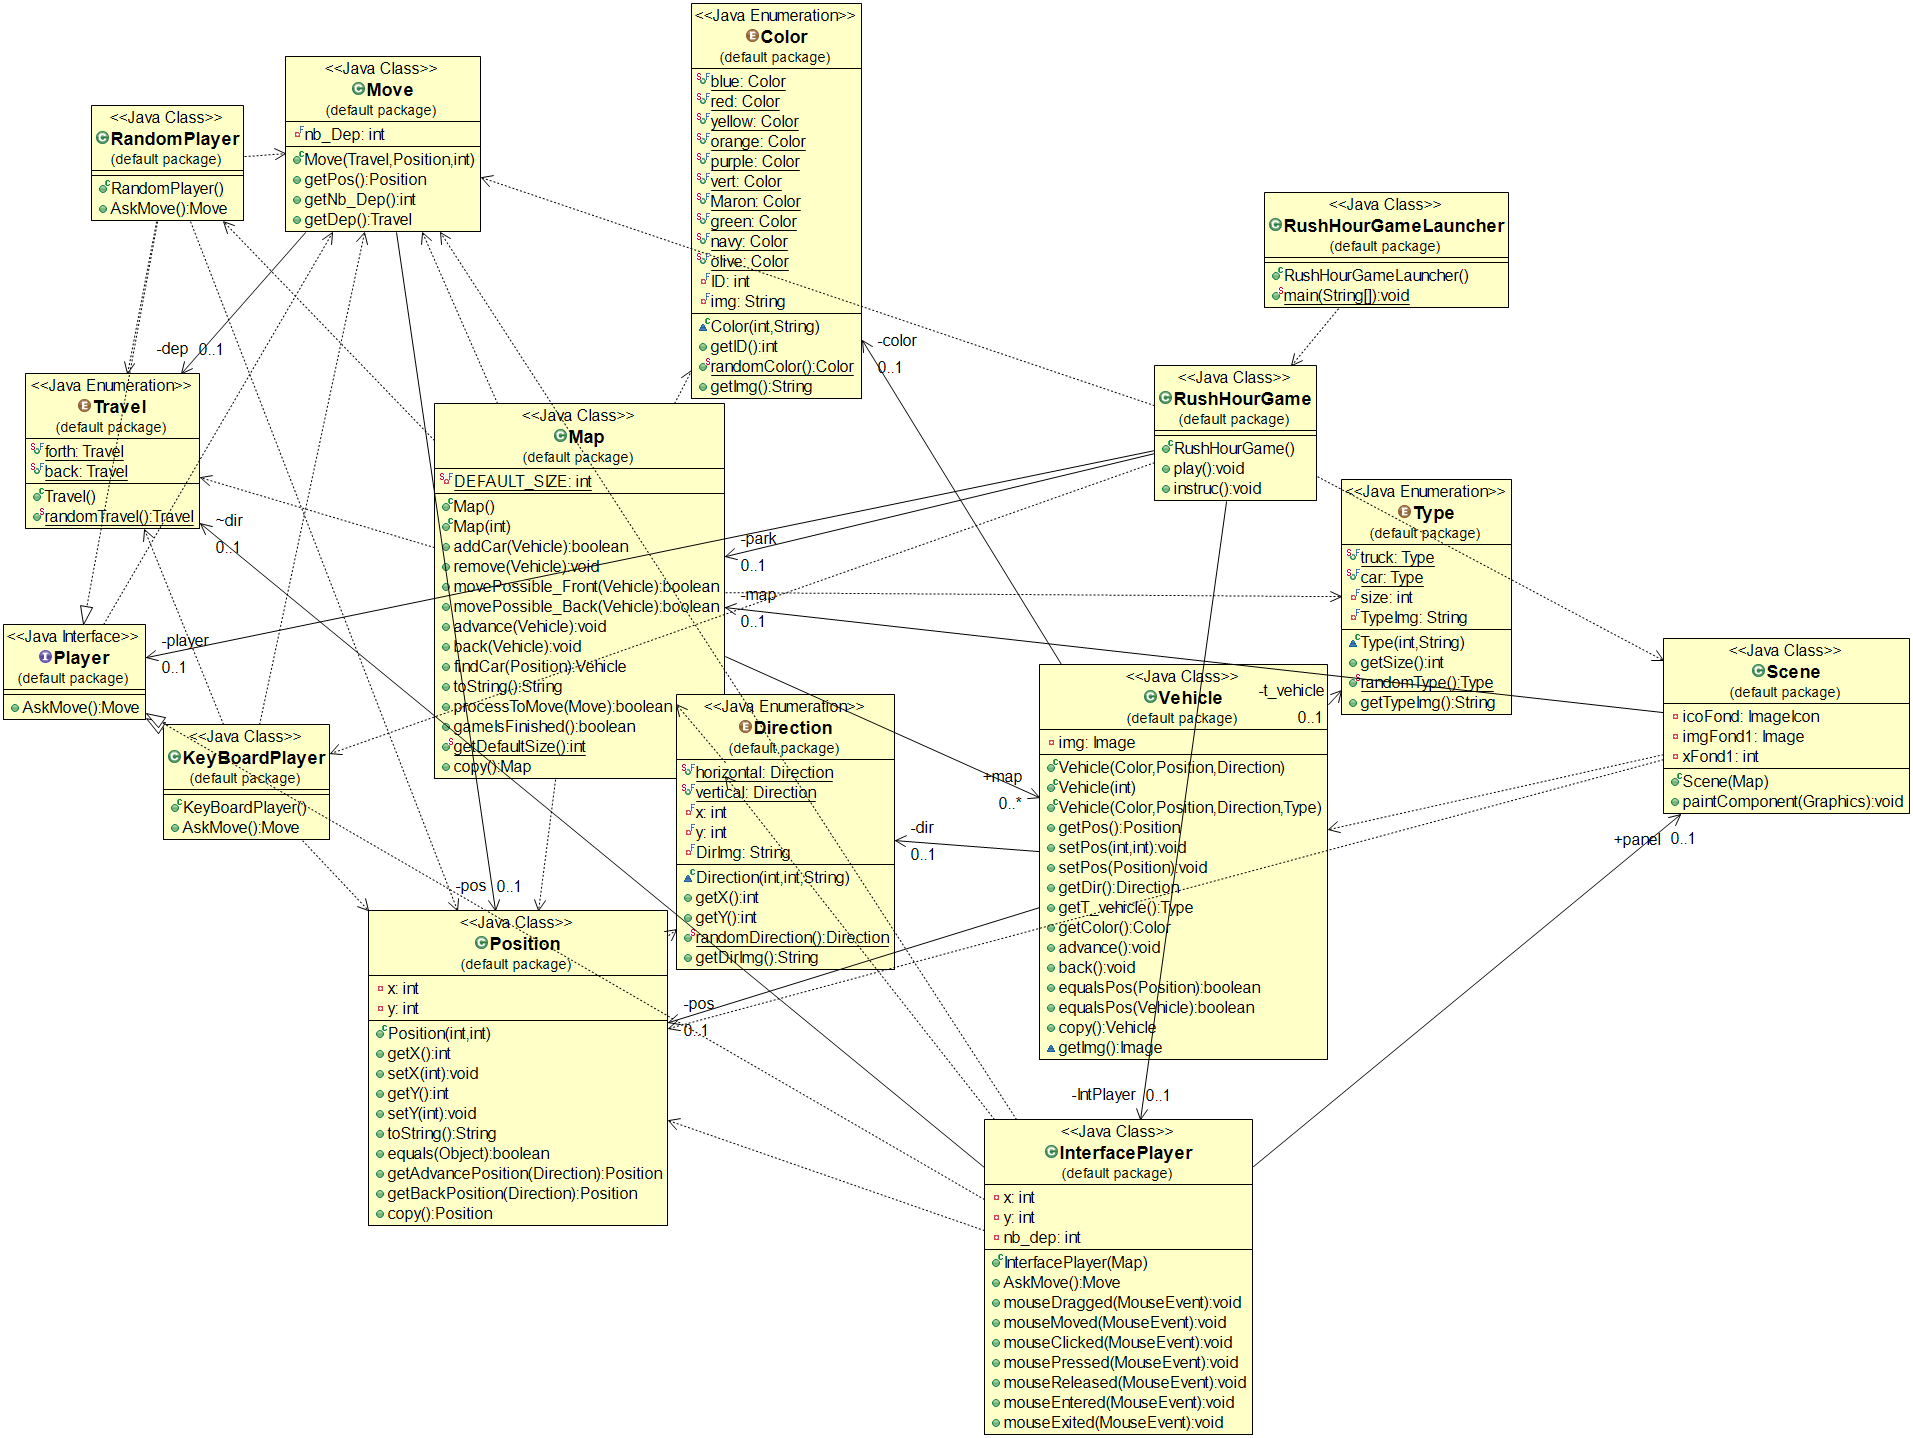
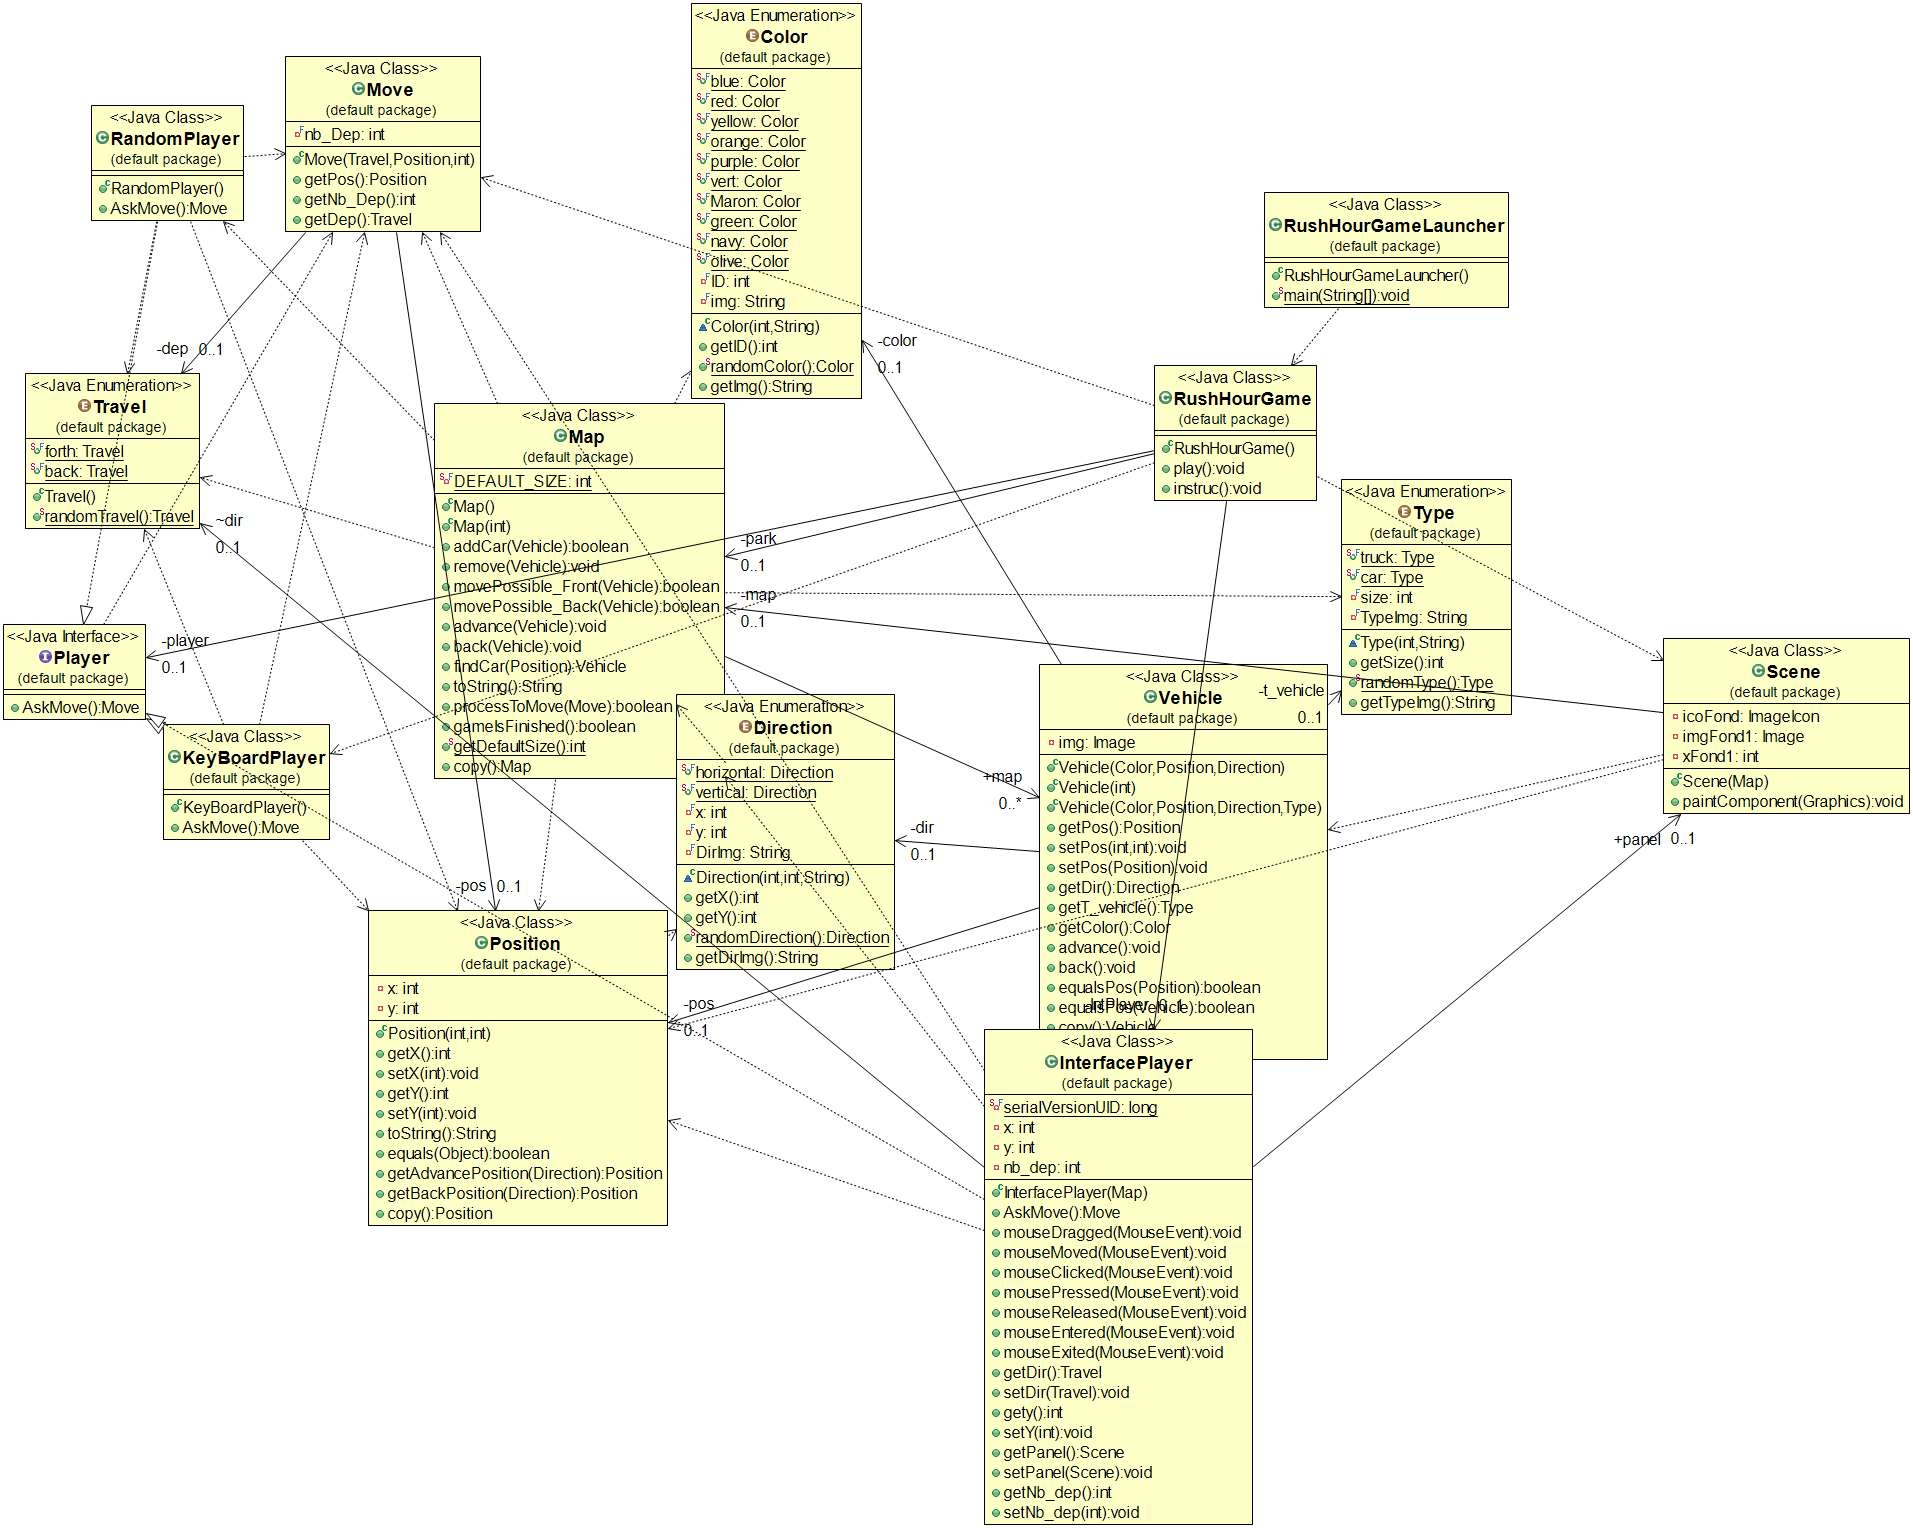
finish all

diff --git a/src/RushHourGame.java b/src/RushHourGame.java
@@ -45,7 +45,7 @@ public class RushHourGame {
 		while(!GameIsOver) {
 			System.out.println(this.park.toString());
 			GameIsOver=this.park.processToMove(this.IntPlayer.AskMove());
-			IntPlayer.panel.repaint();
+			IntPlayer.getPanel().repaint();
 		}
 		System.out.println(this.park.toString()+"\nCongratulation you win!!!");
 	

diff --git a/src/RushHourGameLauncher.java b/src/RushHourGameLauncher.java
@@ -7,7 +7,7 @@ public class RushHourGameLauncher {
 
 	/**
 	 * creation of part
-	 * play the game
+	 * play the game(
 	 * @param args
 	 */
 	public static void main(String[] args) {

diff --git a/src/Color.java b/src/Color.java
@@ -1,12 +1,11 @@
 import java.util.Random;
 
-import javax.swing.ImageIcon;
-
 /**
  * 
  * @author lefeb
  *
  */
+@SuppressWarnings("javadoc")
 public enum Color {
 	/**
 	 * 
